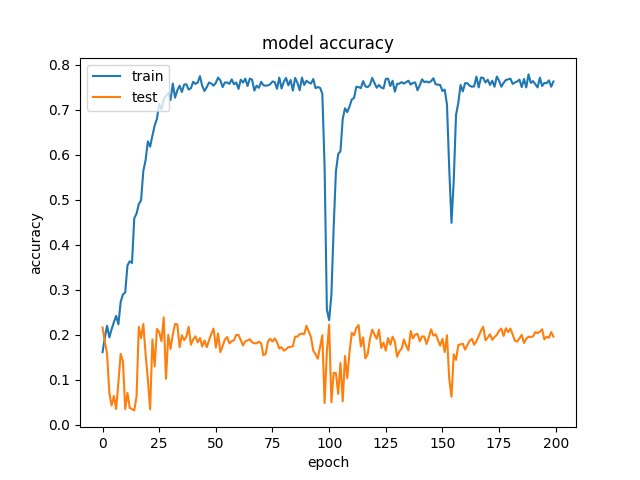
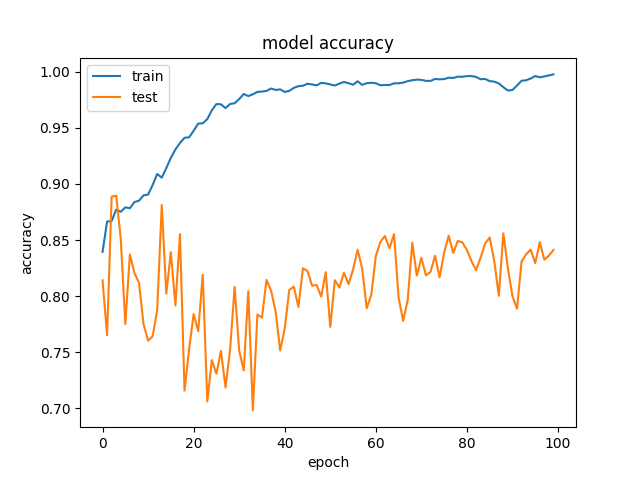
50_10

diff --git a/one_gpu_nih.py b/one_gpu_nih.py
@@ -119,7 +119,7 @@ model.compile(loss='binary_crossentropy', optimizer='adam', metrics=['accuracy']
 model.summary()
 
 
-history = model.fit(X_train, y_train, epochs = 200, batch_size=64, verbose=1, validation_data=(X_test, y_test), shuffle=True)
+history = model.fit(X_train, y_train, epochs = 100, batch_size=64, verbose=1, validation_data=(X_test, y_test), shuffle=True)
 
 model.save('../nih_sample/nih_model_50_10.h5')
 def history_plot(history):

diff --git a/notes.md b/notes.md
@@ -15,7 +15,7 @@ NIH sample
 | noise | training loss | training accuracy | validation loss | validation accuracy |
 | ----- | ------------- | ----------------- | --------------- | ------------------- |
 | 0%   | .06           | .95               | .60             | .89                 |
-| 10%   | .08          | .93               | .52             | .87                 |
+| 10%   | .01          | .99               | .93             | .84                 |
 | 30%   | .10          | .92               | .45             | .87                 |
 | 50%   | .14           | .90              | .48             | .87                 |
 
